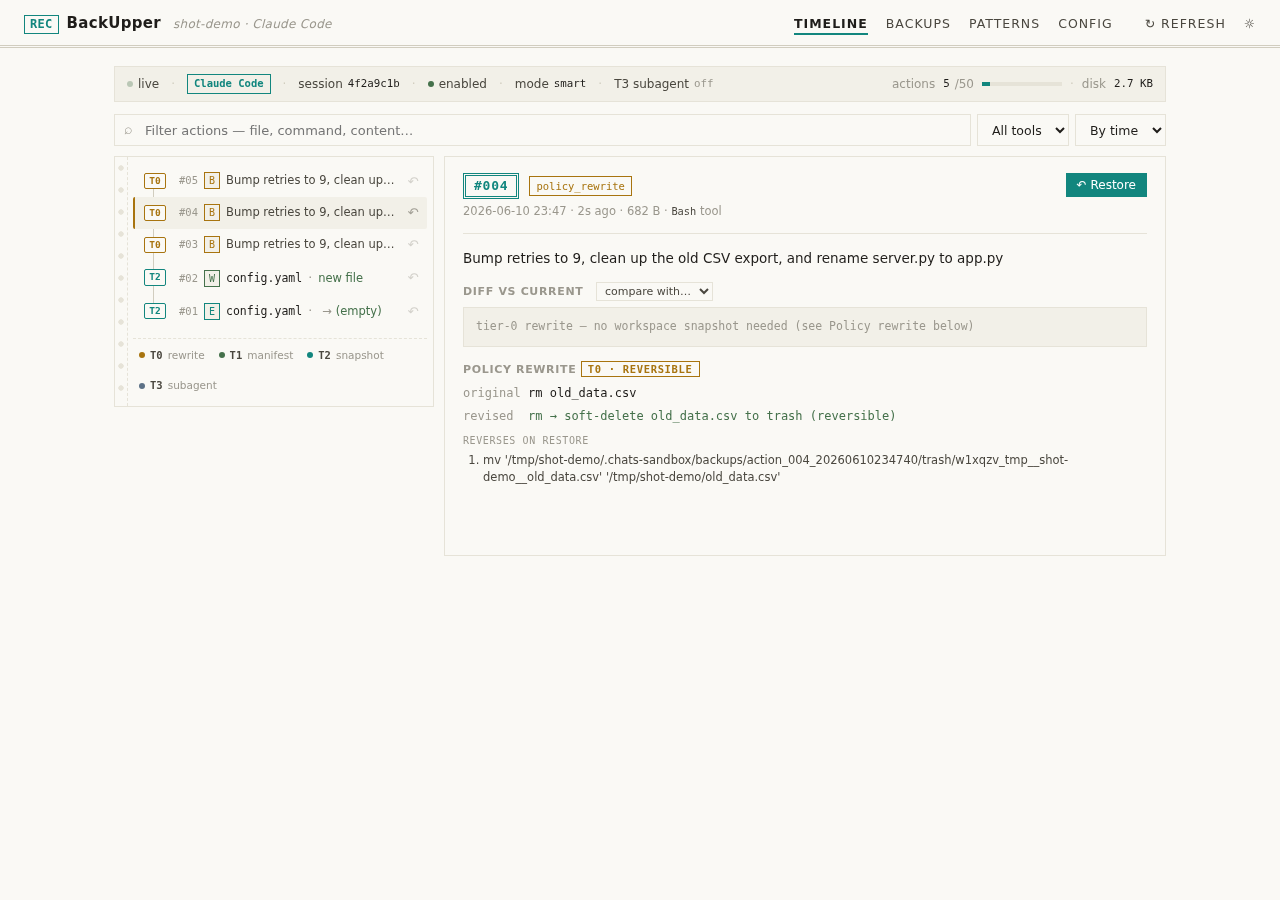
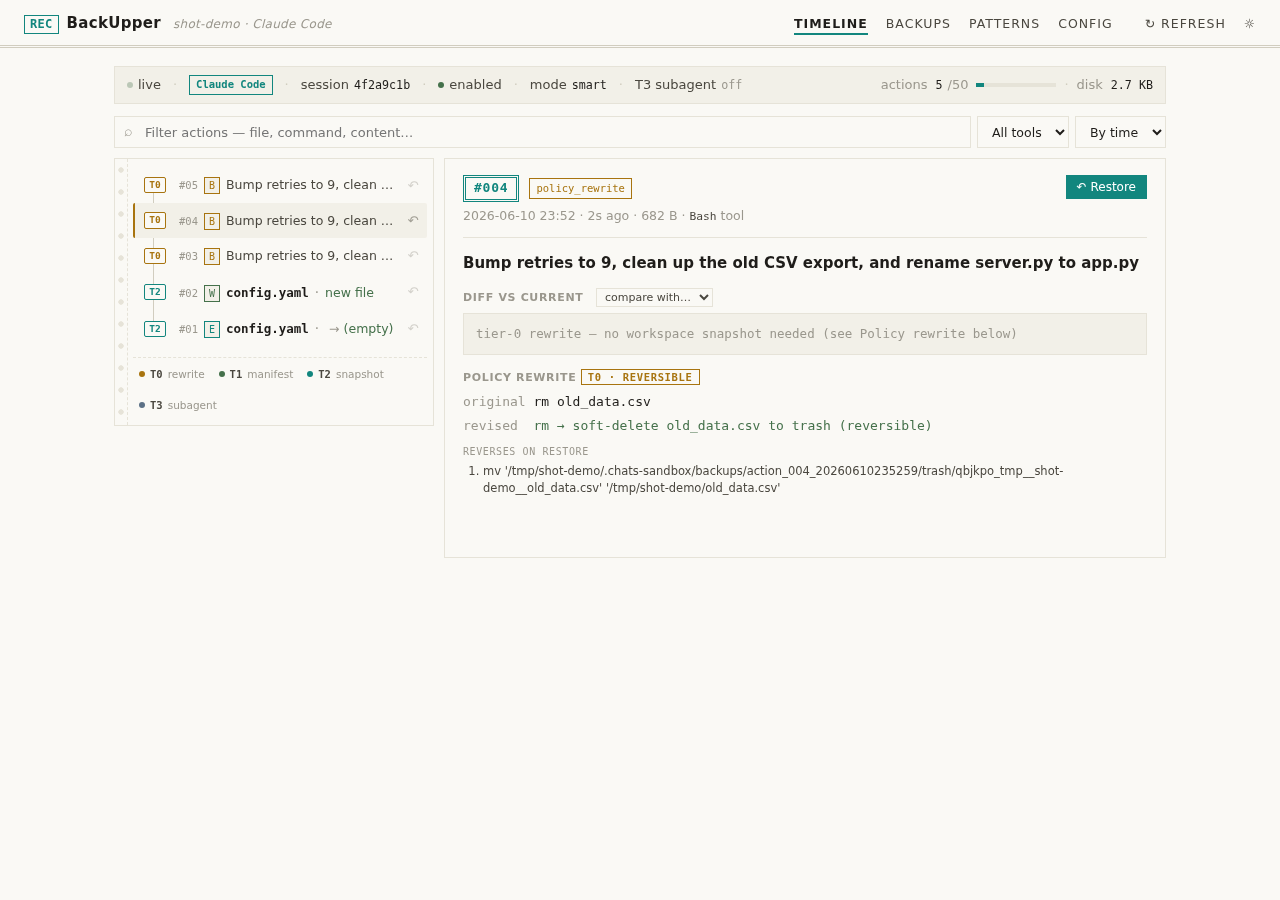
style(dashboard): larger, bolder main text
Body 15->16px with weight 450; primary reading surfaces step up:
timeline rows 12.5->13.5px @500 (filenames 600), detail instruction
13.5->15px @550, kv/diff/meta/file-list +1px @500, status strip
12->13px @500, backups/patterns/log rows +1px @500, config labels
15px @600, modal copy 14.5px. Labels and chips stay small so the
hierarchy sharpens rather than flattens. Screenshots refreshed.

diff --git a/src/dashboard/static/index.html b/src/dashboard/static/index.html
@@ -72,7 +72,8 @@
     background: var(--bg);
     color: var(--text);
     font-family: -apple-system, BlinkMacSystemFont, "Inter", system-ui, "Segoe UI", sans-serif;
-    font-size: 15px;
+    font-size: 16px;
+    font-weight: 450;
     line-height: 1.55;
     -webkit-font-smoothing: antialiased;
   }
@@ -120,7 +121,7 @@
   .panel.active { display: block; }
 
   /* Compact status strip — one instance, shared by every tab */
-  .status-bar { display: flex; align-items: center; gap: 12px; padding: 7px 12px; background: var(--bg-soft); border: 1px solid var(--line); margin-bottom: 12px; font-size: 12px; flex-wrap: wrap; }
+  .status-bar { display: flex; align-items: center; gap: 12px; padding: 8px 12px; background: var(--bg-soft); border: 1px solid var(--line); margin-bottom: 12px; font-size: 13px; font-weight: 500; flex-wrap: wrap; }
   .status-bar .pill { display: inline-flex; align-items: center; gap: 5px; color: var(--text-dim); white-space: nowrap; }
   .status-bar .pill code { color: var(--text); font-family: "JetBrains Mono", monospace; }
   .status-bar .pill .dot { width: 6px; height: 6px; border-radius: 50%; }
@@ -160,7 +161,7 @@
   /* Timeline rows */
   .tl-rows { position: relative; padding: 4px 0; }
   .tl-vline { position: absolute; left: 20px; top: 14px; bottom: 14px; width: 1px; background: var(--line-strong); z-index: 0; }
-  .tl-row { display: grid; grid-template-columns: 28px 1fr 16px; column-gap: 10px; align-items: center; padding: 7px 6px; font-size: 12.5px; cursor: pointer; position: relative; z-index: 1; border-radius: 2px; border-left: 2px solid transparent; }
+  .tl-row { display: grid; grid-template-columns: 28px 1fr 16px; column-gap: 10px; align-items: center; padding: 8px 6px; font-size: 13.5px; font-weight: 500; cursor: pointer; position: relative; z-index: 1; border-radius: 2px; border-left: 2px solid transparent; }
   .tl-row:hover { background: var(--hover-bg); }
   /* Selected row carries its tier color on the left edge. */
   .tl-row.selected { background: var(--bg-soft); }
@@ -190,13 +191,13 @@
   .tl-tool.E { color: var(--accent);  border-color: var(--accent); }
   .tl-tool.W { color: var(--success); border-color: var(--success); }
   .tl-tool.B { color: var(--warn);    border-color: var(--warn); }
-  .tl-file { color: var(--text); font-family: "JetBrains Mono", monospace; font-size: 11.5px; flex-shrink: 0; }
+  .tl-file { color: var(--text); font-family: "JetBrains Mono", monospace; font-size: 12.5px; font-weight: 600; flex-shrink: 0; }
   .tl-sep { color: var(--muted); margin: 0 6px; flex-shrink: 0; }
-  .tl-detail { color: var(--text-dim); font-size: 11.5px; overflow: hidden; text-overflow: ellipsis; white-space: nowrap; min-width: 0; flex: 1; }
+  .tl-detail { color: var(--text-dim); font-size: 12.5px; overflow: hidden; text-overflow: ellipsis; white-space: nowrap; min-width: 0; flex: 1; }
   .tl-detail .strike { text-decoration: line-through; text-decoration-color: rgba(182, 45, 28, 0.45); color: var(--text-dim); }
   .tl-detail .arrow { color: var(--muted); margin: 0 4px; }
   .tl-detail .new   { color: var(--success); }
-  .tl-cmd { font-family: "JetBrains Mono", monospace; font-size: 11px; color: var(--text-dim); overflow: hidden; text-overflow: ellipsis; white-space: nowrap; flex: 1; min-width: 0; }
+  .tl-cmd { font-family: "JetBrains Mono", monospace; font-size: 12px; font-weight: 500; color: var(--text-dim); overflow: hidden; text-overflow: ellipsis; white-space: nowrap; flex: 1; min-width: 0; }
   .tl-cmd .verb { color: var(--muted); margin-right: 4px; }
   /* Restore is the whole point — keep it visible, brighten on hover. */
   .tl-restore { opacity: 0.4; color: var(--muted); font-size: 13px; cursor: pointer; background: transparent; border: none; padding: 2px; transition: opacity 0.1s, color 0.1s; line-height: 1; }
@@ -220,7 +221,7 @@
   .tl-legend .item b { color: var(--text-dim); font-family: "JetBrains Mono", monospace; font-weight: 600; }
 
   /* Detail pane */
-  .detail-empty { text-align: center; padding: 60px 20px; color: var(--muted); font-size: 13px; }
+  .detail-empty { text-align: center; padding: 60px 20px; color: var(--muted); font-size: 14px; }
   .detail-header { display: flex; justify-content: space-between; align-items: flex-start; gap: 12px; padding-bottom: 12px; border-bottom: 1px solid var(--line); margin-bottom: 14px; }
   .detail-title-row { display: flex; align-items: center; gap: 10px; margin-bottom: 4px; flex-wrap: wrap; }
   /* Action number as a ticket stamp — double rule, like a punched stub. */
@@ -234,13 +235,13 @@
   .detail-strat.npm_list,
   .detail-strat.env_snapshot,
   .detail-strat.git_tag        { color: var(--t1); border-color: var(--t1); }
-  .detail-meta { font-size: 11.5px; color: var(--muted); }
+  .detail-meta { font-size: 12.5px; color: var(--muted); }
   .detail-meta code { color: var(--text-dim); font-family: "JetBrains Mono", monospace; }
-  .detail-instruction { font-size: 13.5px; color: var(--text); margin-bottom: 12px; line-height: 1.5; word-break: break-word; }
+  .detail-instruction { font-size: 15px; font-weight: 550; color: var(--text); margin-bottom: 12px; line-height: 1.5; word-break: break-word; }
   .detail-section { margin-top: 14px; }
   .detail-section h4 { margin: 0 0 6px; font-size: 11px; text-transform: uppercase; letter-spacing: 0.06em; color: var(--muted); font-weight: 600; }
-  .detail-section .kv { font-family: "JetBrains Mono", monospace; font-size: 12px; color: var(--text-dim); word-break: break-all; }
-  .detail-section .file-list code { font-family: "JetBrains Mono", monospace; color: var(--text); font-size: 11.5px; }
+  .detail-section .kv { font-family: "JetBrains Mono", monospace; font-size: 13px; font-weight: 500; color: var(--text-dim); word-break: break-all; }
+  .detail-section .file-list code { font-family: "JetBrains Mono", monospace; color: var(--text); font-size: 12.5px; font-weight: 500; }
   .file-item { display: inline-flex; align-items: center; gap: 2px; }
   .file-restore, .step-restore { background: transparent; border: none; color: var(--muted); cursor: pointer; font-size: 12px; padding: 0 2px; opacity: 0.45; line-height: 1; }
   .file-restore:hover, .step-restore:hover { color: var(--accent); opacity: 1; }
@@ -248,7 +249,7 @@
   #compare-select { margin-left: 8px; font-size: 11px; padding: 1px 4px; background: var(--bg); border: 1px solid var(--line); color: var(--text-dim); font-family: inherit; text-transform: none; letter-spacing: normal; cursor: pointer; }
   #compare-select:hover { border-color: var(--line-strong); color: var(--text); }
   .detail-section .stat { font-family: "JetBrains Mono", monospace; color: var(--success); font-size: 12px; }
-  .detail-diff { margin: 0; padding: 10px 12px; background: var(--bg-soft); border: 1px solid var(--line); font-family: "JetBrains Mono", monospace; font-size: 11.5px; line-height: 1.55; max-height: 360px; overflow: auto; white-space: pre; }
+  .detail-diff { margin: 0; padding: 10px 12px; background: var(--bg-soft); border: 1px solid var(--line); font-family: "JetBrains Mono", monospace; font-size: 12.5px; line-height: 1.55; max-height: 360px; overflow: auto; white-space: pre; }
   .diff-add { color: var(--success); }
   .diff-del { color: var(--danger); }
   .diff-hdr { color: var(--accent); }
@@ -280,7 +281,7 @@
   .bk-table { border: 1px solid var(--line); }
   .bk-head, .bk-row { display: grid; grid-template-columns: 20px 1.6fr 0.9fr 1.4fr 1.2fr; gap: 10px; padding: 8px 12px; align-items: center; }
   .bk-head { background: var(--bg-soft); border-bottom: 1px solid var(--line); font-size: 10.5px; text-transform: uppercase; letter-spacing: 0.06em; color: var(--muted); font-weight: 600; }
-  .bk-row { border-bottom: 1px solid var(--line); font-size: 12.5px; cursor: pointer; }
+  .bk-row { border-bottom: 1px solid var(--line); font-size: 13.5px; font-weight: 500; cursor: pointer; }
   .bk-row:hover { background: var(--hover-bg); }
   .bk-row.expanded { background: var(--bg-soft); }
   .bk-caret { color: var(--muted); display: inline-block; transition: transform 0.12s; }
@@ -304,7 +305,7 @@
   .bk-size-note code { color: var(--text-dim); font-family: "JetBrains Mono", monospace; }
   .bk-size-head, .bk-size-row { display: grid; grid-template-columns: 28px 1.5fr 90px 1fr 90px; gap: 10px; padding: 7px 12px; align-items: center; }
   .bk-size-head { background: var(--bg-soft); border-bottom: 1px solid var(--line); font-size: 10.5px; text-transform: uppercase; letter-spacing: 0.06em; color: var(--muted); font-weight: 600; }
-  .bk-size-row { border-bottom: 1px solid var(--line); font-size: 12.5px; }
+  .bk-size-row { border-bottom: 1px solid var(--line); font-size: 13.5px; font-weight: 500; }
   .bk-size-row:hover { background: var(--hover-bg); }
   .bk-size-rank { color: var(--muted); font-family: "JetBrains Mono", monospace; font-size: 11px; text-align: right; }
   .bk-size-file { font-family: "JetBrains Mono", monospace; color: var(--text); overflow: hidden; text-overflow: ellipsis; white-space: nowrap; }
@@ -318,7 +319,7 @@
   .bk-stg-label { font-family: "JetBrains Mono", monospace; font-size: 12.5px; color: var(--text); font-weight: 500; }
   .bk-stg-meta { color: var(--muted); font-size: 11px; }
   .bk-stg-path { padding: 0 12px 6px; font-family: "JetBrains Mono", monospace; font-size: 10.5px; color: var(--muted); overflow: hidden; text-overflow: ellipsis; white-space: nowrap; background: var(--bg-soft); border-bottom: 1px solid var(--line); }
-  .bk-stg-row { display: grid; grid-template-columns: 38px 110px 1fr; gap: 10px; padding: 6px 12px; align-items: center; font-size: 12px; cursor: pointer; }
+  .bk-stg-row { display: grid; grid-template-columns: 38px 110px 1fr; gap: 10px; padding: 7px 12px; align-items: center; font-size: 13px; font-weight: 500; cursor: pointer; }
   .bk-stg-row:hover { background: var(--hover-bg); }
   .bk-stg-row .seq { color: var(--accent); font-family: "JetBrains Mono", monospace; }
   .bk-stg-row .tool { color: var(--warn); font-family: "JetBrains Mono", monospace; font-size: 11px; overflow: hidden; text-overflow: ellipsis; white-space: nowrap; }
@@ -336,7 +337,7 @@
   /* Backups — Restore log (the rewind audit trail) */
   .bk-log-head, .bk-log-row { display: grid; grid-template-columns: 160px 70px 1fr 200px; gap: 10px; padding: 7px 12px; align-items: center; }
   .bk-log-head { background: var(--bg-soft); border-bottom: 1px solid var(--line); font-size: 10.5px; text-transform: uppercase; letter-spacing: 0.06em; color: var(--muted); font-weight: 600; }
-  .bk-log-row { border-bottom: 1px solid var(--line); font-size: 12px; }
+  .bk-log-row { border-bottom: 1px solid var(--line); font-size: 13px; font-weight: 500; }
   .bk-log-row .when { font-family: "JetBrains Mono", monospace; font-size: 11px; color: var(--muted); font-variant-numeric: tabular-nums; }
   .bk-log-row .target { font-family: "JetBrains Mono", monospace; font-size: 11.5px; color: var(--text); overflow: hidden; text-overflow: ellipsis; white-space: nowrap; }
   .bk-log-row .outcome { font-family: "JetBrains Mono", monospace; font-size: 11px; }
@@ -349,13 +350,13 @@
   .pat-head { display: flex; align-items: baseline; gap: 8px; padding: 8px 12px; background: var(--bg-soft); border-bottom: 1px solid var(--line); }
   .pat-server { font-family: "JetBrains Mono", monospace; font-size: 13px; color: var(--text); font-weight: 600; }
   .pat-meta { color: var(--muted); font-size: 11px; margin-left: auto; }
-  .pat-row { display: flex; gap: 10px; padding: 9px 12px; border-bottom: 1px solid var(--line); font-size: 12.5px; align-items: flex-start; }
+  .pat-row { display: flex; gap: 10px; padding: 10px 12px; border-bottom: 1px solid var(--line); font-size: 13.5px; align-items: flex-start; }
   .pat-row:last-child { border-bottom: none; }
   .pat-badge { flex-shrink: 0; font-family: "JetBrains Mono", monospace; font-size: 10px; border: 1px solid currentColor; padding: 0 5px; line-height: 1.7; margin-top: 1px; min-width: 62px; text-align: center; }
   .pat-badge.verified { color: var(--success); }
   .pat-badge.proposed { color: var(--muted); }
   .pat-badge.failed   { color: var(--danger); }
-  .pat-action { color: var(--text); font-weight: 500; }
+  .pat-action { color: var(--text); font-weight: 650; }
   .pat-win { color: var(--text-dim); margin-top: 2px; line-height: 1.45; }
   .pat-win .ew { color: var(--success); font-family: "JetBrains Mono", monospace; font-size: 10px; margin-right: 5px; letter-spacing: 0.05em; }
   .pat-note { color: var(--muted); font-size: 11px; margin-top: 3px; font-style: italic; }
@@ -378,8 +379,8 @@
   .cfg-field { display: grid; grid-template-columns: 1fr 220px; gap: 18px; align-items: center; padding: 11px 0; border-bottom: 1px solid var(--line); }
   .cfg-field.stacked { grid-template-columns: 1fr; }
   .cfg-field.stacked .cfg-input { margin-top: 6px; }
-  .cfg-label .title { font-size: 14px; font-weight: 500; }
-  .cfg-label .desc  { font-size: 12.5px; color: var(--muted); margin-top: 2px; }
+  .cfg-label .title { font-size: 15px; font-weight: 600; }
+  .cfg-label .desc  { font-size: 13.5px; color: var(--muted); margin-top: 2px; }
   .cfg-input input[type=text], .cfg-input input[type=number], .cfg-input select { background: var(--bg); border: 1px solid var(--line); color: var(--text); padding: 6px 10px; font-size: 14px; font-family: inherit; width: 100%; }
   .cfg-input input:focus, .cfg-input select:focus { outline: 1px solid var(--accent); outline-offset: 0; border-color: var(--accent); }
   .toggle { position: relative; display: inline-block; width: 40px; height: 22px; }
@@ -403,7 +404,7 @@
   .save-msg.err { color: var(--danger); }
 
   /* Empty state */
-  .empty { text-align: center; padding: 40px 20px; color: var(--muted); font-size: 13px; }
+  .empty { text-align: center; padding: 40px 20px; color: var(--muted); font-size: 14px; }
 
   /* Modal */
   .modal-backdrop { position: fixed; inset: 0; background: rgba(0,0,0,0.4); display: none; align-items: center; justify-content: center; z-index: 100; }
@@ -422,7 +423,7 @@
   .modal-preview .pv-cmd { font-family: "JetBrains Mono", monospace; font-size: 10.5px; color: var(--muted); padding: 1px 0 1px 10px; white-space: nowrap; overflow: hidden; text-overflow: ellipsis; }
   .modal-preview .pv-note { color: var(--muted); font-style: italic; }
   .modal h3 { margin: 0 0 6px; font-size: 16px; font-weight: 600; }
-  .modal p  { margin: 6px 0; color: var(--text-dim); font-size: 13.5px; line-height: 1.5; }
+  .modal p  { margin: 6px 0; color: var(--text-dim); font-size: 14.5px; line-height: 1.5; }
   .modal .modal-actions { margin-top: 20px; display: flex; gap: 8px; justify-content: flex-end; }
   .toast { position: fixed; bottom: 24px; right: 24px; background: var(--bg); border: 1px solid var(--line-strong); border-left: 3px solid var(--accent); padding: 12px 16px; font-size: 13.5px; color: var(--text); max-width: 460px; z-index: 110; transform: translateY(20px); opacity: 0; transition: transform 0.18s, opacity 0.18s; }
   .toast.show { opacity: 1; transform: translateY(0); }
